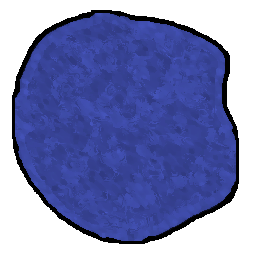
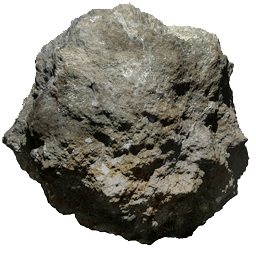
Изменение текстур

diff --git a/core/src/com/mygdx/app/game/Asteroid.java b/core/src/com/mygdx/app/game/Asteroid.java
@@ -1,10 +1,12 @@
 package com.mygdx.app.game;
 
+import com.badlogic.gdx.graphics.g2d.BitmapFont;
 import com.badlogic.gdx.graphics.g2d.SpriteBatch;
 import com.badlogic.gdx.graphics.g2d.TextureRegion;
 import com.badlogic.gdx.math.Circle;
 import com.badlogic.gdx.math.MathUtils;
 import com.badlogic.gdx.math.Vector2;
+import com.badlogic.gdx.utils.StringBuilder;
 import com.mygdx.app.game.helpers.Poolable;
 import com.mygdx.app.screen.ScreenManager;
 import com.mygdx.app.screen.utils.Assets;
@@ -23,6 +25,9 @@ public class Asteroid implements Poolable {
     private Circle hitArea;
     private final float BASE_SIZE = 256f;
     private final float BASE_RADIUS = BASE_SIZE / 2f;
+
+    private StringBuilder stringBuilder;
+    private float strTime = 5f;
 
     public int getHpMax() {
         return hpMax;
@@ -47,6 +52,7 @@ public class Asteroid implements Poolable {
         this.hp = 0;
         this.hitArea = new Circle(0,0,0);
         this.texture = Assets.getInstance().getAtlas().findRegion("asteroid");
+        this.stringBuilder = new StringBuilder();
     }
 
     public float getScale() {
@@ -100,6 +106,10 @@ public class Asteroid implements Poolable {
     }
 
     public void update(float dt){
+
+        strTime -= dt;
+        System.out.println(strTime);
+
         position.mulAdd(velocity,dt);
         angle += rotationSpeed * dt;
 

diff --git a/core/src/com/mygdx/app/screen/ScreenManager.java b/core/src/com/mygdx/app/screen/ScreenManager.java
@@ -16,9 +16,9 @@ public class ScreenManager {
         MENU, GAME, GAMEOVER
     }
 
-    public static final int SCREEN_WIDTH = 1920;
+    public static final int SCREEN_WIDTH = 1366;
     public static final int HALF_SCREEN_WIDTH = SCREEN_WIDTH / 2;
-    public static final int SCREEN_HEIGHT = 1080;
+    public static final int SCREEN_HEIGHT = 760;
     public static final int HALF_SCREEN_HEIGHT = SCREEN_HEIGHT / 2;
 
     private StarGame game;

diff --git a/core/src/com/mygdx/app/game/AsteroidController.java b/core/src/com/mygdx/app/game/AsteroidController.java
@@ -1,5 +1,6 @@
 package com.mygdx.app.game;
 
+import com.badlogic.gdx.graphics.g2d.BitmapFont;
 import com.badlogic.gdx.graphics.g2d.SpriteBatch;
 import com.badlogic.gdx.graphics.g2d.TextureRegion;
 import com.badlogic.gdx.math.MathUtils;

diff --git a/core/src/com/mygdx/app/screen/GameScreen.java b/core/src/com/mygdx/app/screen/GameScreen.java
@@ -78,6 +78,10 @@ public class GameScreen extends AbstractScreen {
         //stage.act(dt);
     }
 
+    public void shoWDamage(){
+
+    }
+
     @Override
     public void render(float delta) {
         //update(delta);
